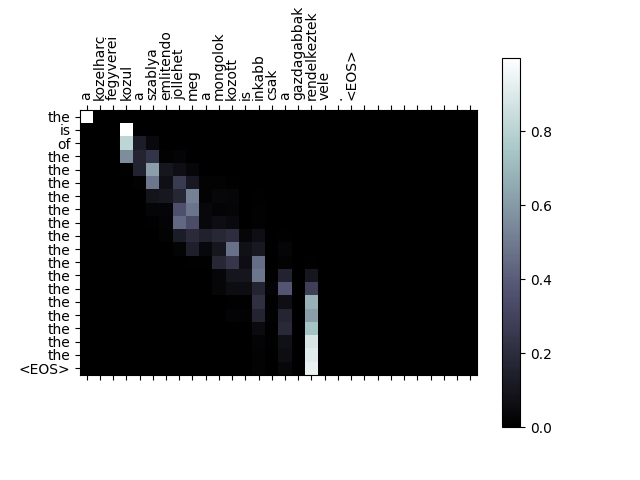
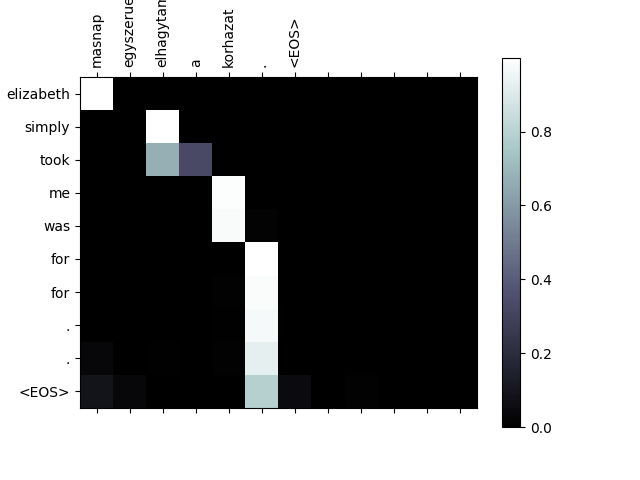
12 words final

Changed region(s): [[0.0, 0.0, 0.75, 0.875]]

diff --git a/main.py b/main.py
@@ -24,7 +24,7 @@ EOS_token = 1
 teacher_forcing_ratio = 0.5
 
 def filterPair(p):
-    return len(p[0].split(' ')) < 30 and len(p[1].split(' ')) < 30
+    return len(p[0].split(' ')) < 12 and len(p[1].split(' ')) < 12
 
 def filterPairs(pairs):
     return [pair for pair in pairs if filterPair(pair)]
@@ -71,7 +71,7 @@ def train(input_tensor, target_tensor, encoder, decoder, encoder_optimizer, deco
     input_length = input_tensor.size(0)
     target_length = target_tensor.size(0)
 
-    encoder_outputs = torch.zeros(30, encoder.hidden_size, device="cuda")
+    encoder_outputs = torch.zeros(12, encoder.hidden_size, device="cuda")
     loss = 0
 
     for ei in range(input_length):
@@ -181,7 +181,7 @@ def evaluate(encoder, decoder, sentence):
         encoder_h_hidden = encoder.initHidden()
         encoder_c_hidden = encoder.initHidden()
 
-        encoder_outputs = torch.zeros(30, encoder.hidden_size, device="cuda")
+        encoder_outputs = torch.zeros(12, encoder.hidden_size, device="cuda")
 
         for ei in range(input_length):
             encoder_output, encoder_hiddens = encoder(input_tensor[ei], encoder_h_hidden, encoder_c_hidden)
@@ -195,9 +195,9 @@ def evaluate(encoder, decoder, sentence):
         decoder_c_hidden = encoder_c_hidden
 
         decoded_words = []
-        decoder_attentions = torch.zeros(30, 30)
+        decoder_attentions = torch.zeros(12, 12)
 
-        for di in range(30):
+        for di in range(12):
             decoder_output, decoder_hiddens, decoder_attention = decoder(decoder_input, decoder_h_hidden, decoder_c_hidden, encoder_outputs)
             decoder_attentions[di] = decoder_attention.data
             topv, topi = decoder_output.data.topk(1)
@@ -240,7 +240,20 @@ def calculate_bleu_score_train(encoder, decoder):
     avg_BLEU = sum / len(pairs)
     print("BLEU train score -> {}".format(avg_BLEU))
 
-def evaluateRandomly(encoder, decoder, n=20):
+def evaluateRandomly(encoder, decoder, n=10):
+
+    print("From train set:")
+    for i in range(n):
+        pair = random.choice(train_pairs)
+        print('>', pair[0])
+        print('=', pair[1])
+        output_words, attentions = evaluate(encoder, decoder, pair[0])
+        output_sentence = ' '.join(output_words)
+        print('<', output_sentence)
+        print('')
+
+
+    print("From test set:")
     for i in range(n):
         pair = random.choice(test_pairs)
         print('>', pair[0])
@@ -298,14 +311,14 @@ if __name__ == '__main__':
         encoder1 = EncoderRNN.EncoderRNN(input_lang.n_words, hidden_size).to("cuda")
         attn_decoder1 = DecoderRNN.AttnDecoderRNN(hidden_size, output_lang.n_words, dropout_p=0.1).to("cuda")
 
-        epochs = 10
+        epochs = 30
 
         trainIters(encoder1, attn_decoder1, epochs, print_every=10000)
         evaluateRandomly(encoder1, attn_decoder1)
         torch.save(encoder1.state_dict(), "model/encoder.pt")
         torch.save(attn_decoder1.state_dict(), "model/decoder.pt")
-        evaluateAndShowAttention(random.choice(test_pairs)[0], encoder1, attn_decoder1, "attention1")
-        evaluateAndShowAttention(random.choice(test_pairs)[0], encoder1, attn_decoder1, "attention2")
+        evaluateAndShowAttention(random.choice(train_pairs)[0], encoder1, attn_decoder1, "attention1")
+        evaluateAndShowAttention(random.choice(train_pairs)[0], encoder1, attn_decoder1, "attention2")
         evaluateAndShowAttention(random.choice(test_pairs)[0], encoder1, attn_decoder1, "attention3")
         evaluateAndShowAttention(random.choice(test_pairs)[0], encoder1, attn_decoder1, "attention4")
         calculate_bleu_score_train(encoder1, attn_decoder1)
@@ -319,8 +332,8 @@ if __name__ == '__main__':
         encoder.eval()
         attn_decoder.eval()
         evaluateRandomly(encoder, attn_decoder)
-        evaluateAndShowAttention(random.choice(test_pairs)[0], encoder, attn_decoder, "attention1")
-        evaluateAndShowAttention(random.choice(test_pairs)[0], encoder, attn_decoder, "attention2")
+        evaluateAndShowAttention(random.choice(train_pairs)[0], encoder, attn_decoder, "attention1")
+        evaluateAndShowAttention(random.choice(train_pairs)[0], encoder, attn_decoder, "attention2")
         evaluateAndShowAttention(random.choice(test_pairs)[0], encoder, attn_decoder, "attention3")
         evaluateAndShowAttention(random.choice(test_pairs)[0], encoder, attn_decoder, "attention4")
         calculate_bleu_score_train(encoder, attn_decoder)

diff --git a/DecoderRNN.py b/DecoderRNN.py
@@ -11,7 +11,7 @@ class AttnDecoderRNN(nn.Module):
         self.dropout_p = dropout_p
 
         self.embedding = nn.Embedding(self.output_size, self.hidden_size)
-        self.attn = nn.Linear(self.hidden_size * 2, 30)
+        self.attn = nn.Linear(self.hidden_size * 2, 12)
         self.attn_combine = nn.Linear(self.hidden_size * 2, self.hidden_size)
         self.dropout = nn.Dropout(self.dropout_p)
         self.lstm = nn.LSTM(self.hidden_size, self.hidden_size)

diff --git a/FileReading.py b/FileReading.py
@@ -68,10 +68,10 @@ def readLangs(lang1, lang2, reverse=False):
     print("English length frequencies:", frequency)
 
     freq = []
-    for x in list(frequency)[30:]:
+    for x in list(frequency)[12:]:
         freq.append(frequency[x])
 
-    print("Sentences with more than 30 words:", sum(freq))
+    print("Sentences with more than 12 words:", sum(freq))
 
     if reverse:
         pairs = [list(reversed(p)) for p in pairs]
